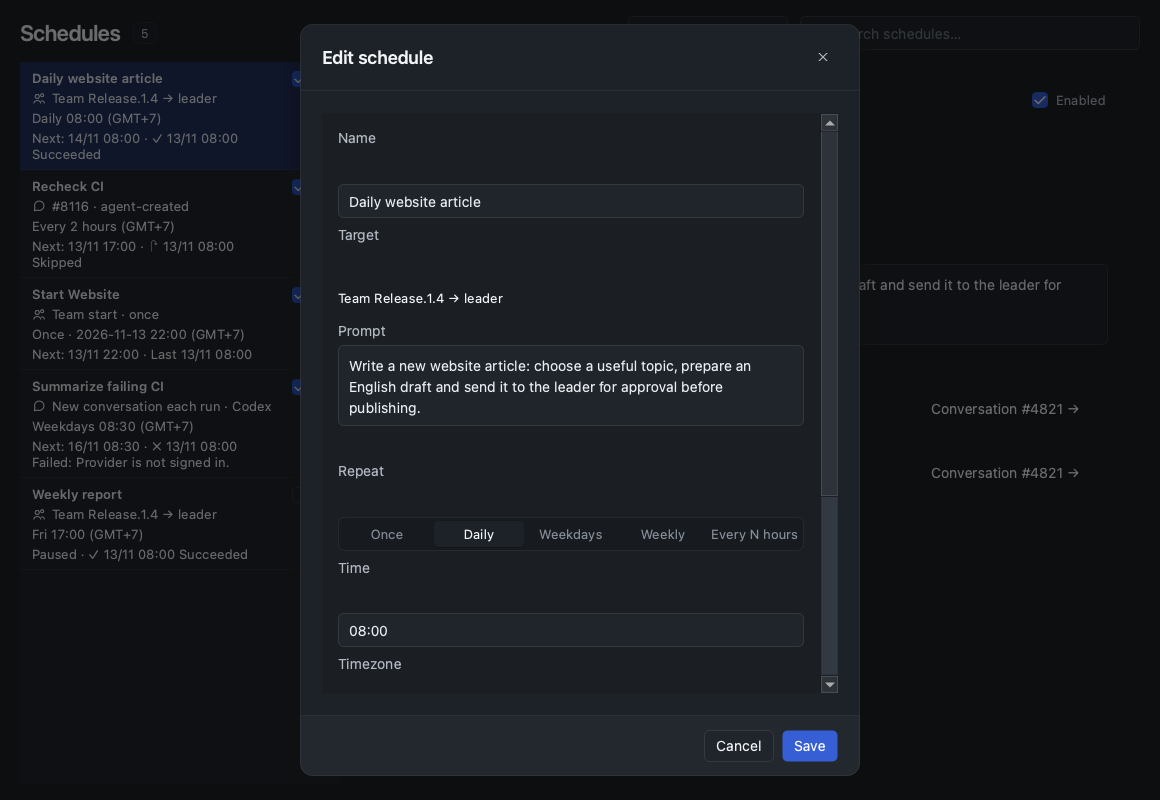
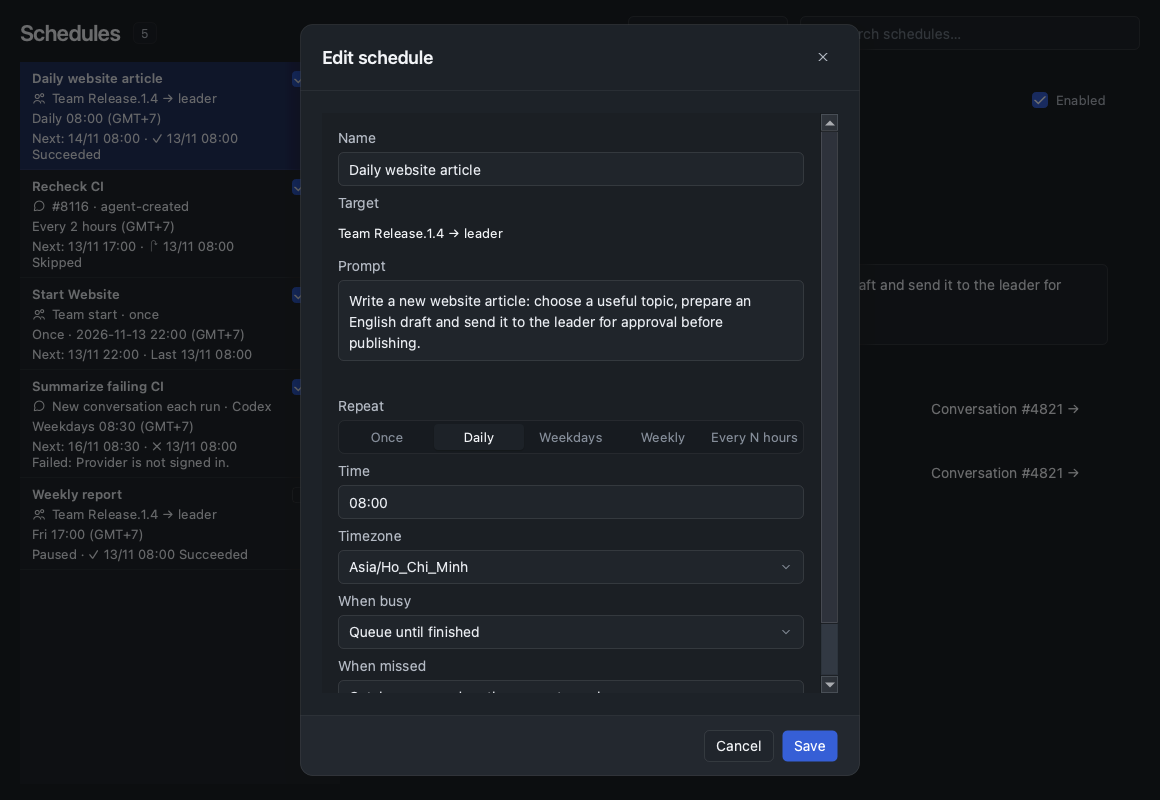
Keep the schedule editor fields tight when the form is shorter than the dialog.
Spare height was opening a gap inside each stacked row. It now sits below the form, and the minimum height follows the visible fields.

diff --git a/apps/desktop/src/schedules/ScheduleEditor.cpp b/apps/desktop/src/schedules/ScheduleEditor.cpp
@@ -62,6 +62,15 @@ ket::FieldRow* stackedRow(const QString& label, QWidget* control, QWidget* paren
     return row;
 }
 
+// The scroll area stretches the form to the viewport. Pin the minimum to the
+// visible size hint so hidden rows cannot leave spare height in the fields.
+void fitForm(QWidget* form) {
+    if (form == nullptr)
+        return;
+    form->setMinimumHeight(0);
+    form->setMinimumHeight(form->sizeHint().height());
+}
+
 void choose(ket::Select* select, const QVariant& value) {
     const int index = select->findData(value);
     select->setCurrentIndex(index >= 0 ? index : 0);
@@ -196,11 +205,9 @@ ScheduleEditor::ScheduleEditor(ScheduleClient* client, const QJsonObject& schedu
     summary_->setObjectName(QStringLiteral("scheduleRuleSummary"));
     summary_->setWordWrap(true);
     column->addWidget(summary_);
-
-    // The card stops at the window, and a minimum taller than that paints over
-    // the footer. The form keeps its own height and scrolls above Cancel/Save.
-    body->adjustSize();
-    body->setMinimumHeight(body->sizeHint().height());
+    // Extra viewport height stays below the fields. Without this, a stacked
+    // FieldRow parks the spare space between its label and its control.
+    column->addStretch(1);
     auto* scroll = new FormScroll;
     scroll->setFrameShape(QFrame::NoFrame);
     scroll->setWidgetResizable(true);
@@ -291,6 +298,7 @@ void ScheduleEditor::applyKind() {
     anchorRow_->setVisible(edit && kind == 4);
     zoneRow_->setVisible(edit);
     raw_->setVisible(preserved_);
+    fitForm(promptNote_ == nullptr ? nullptr : promptNote_->parentWidget());
 }
 
 ScheduleRule ScheduleEditor::collect() const {
@@ -345,11 +353,7 @@ void ScheduleEditor::showIssue(const QString& code, const QString& message, cons
             palette.setColor(group, QPalette::WindowText, danger);
         promptNote_->setPalette(palette);
     }
-    if (QWidget* form = promptNote_->parentWidget()) {
-        form->setMinimumHeight(0);
-        const int natural = form->sizeHint().height();
-        form->setMinimumHeight(natural);
-    }
+    fitForm(promptNote_->parentWidget());
     const bool banner = !message.isEmpty() && resolved.isEmpty();
     banner_->setText(banner ? message : QString{});
     banner_->setVisible(banner);
